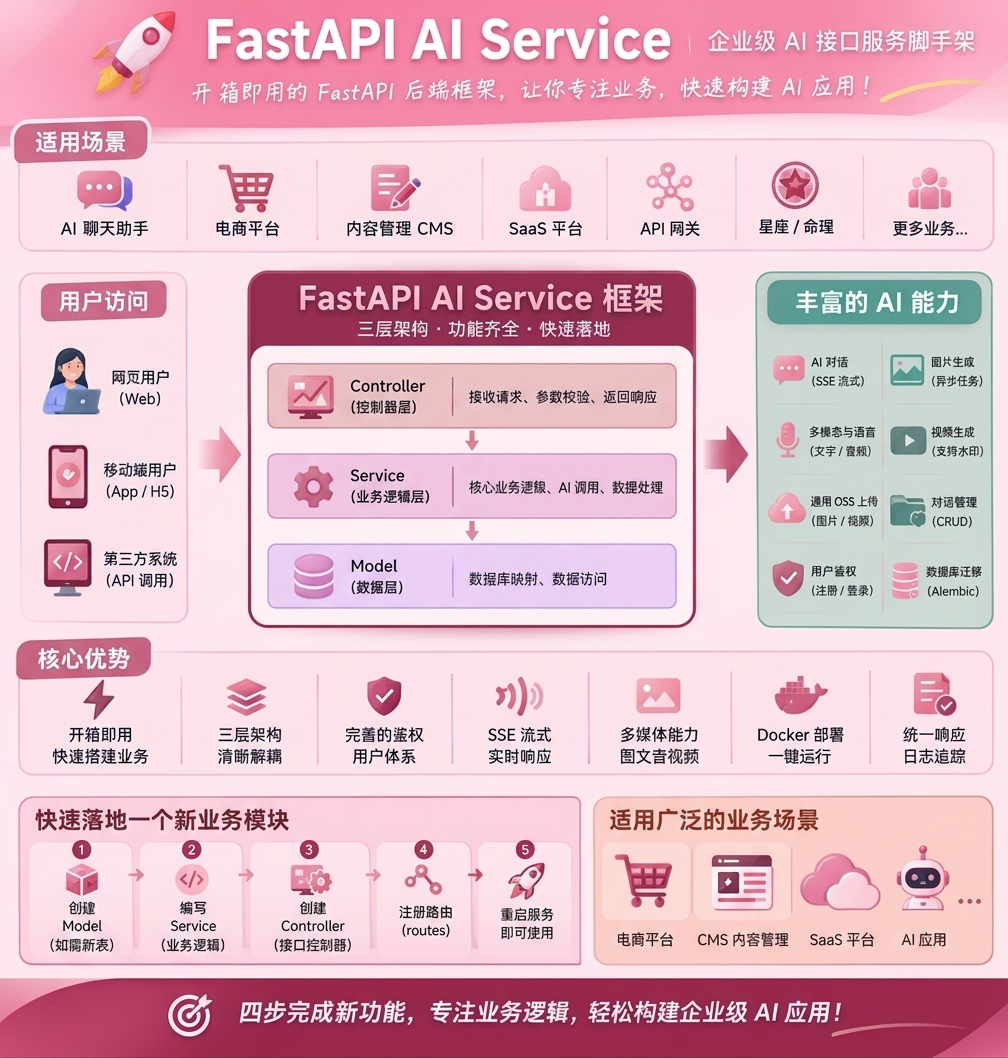
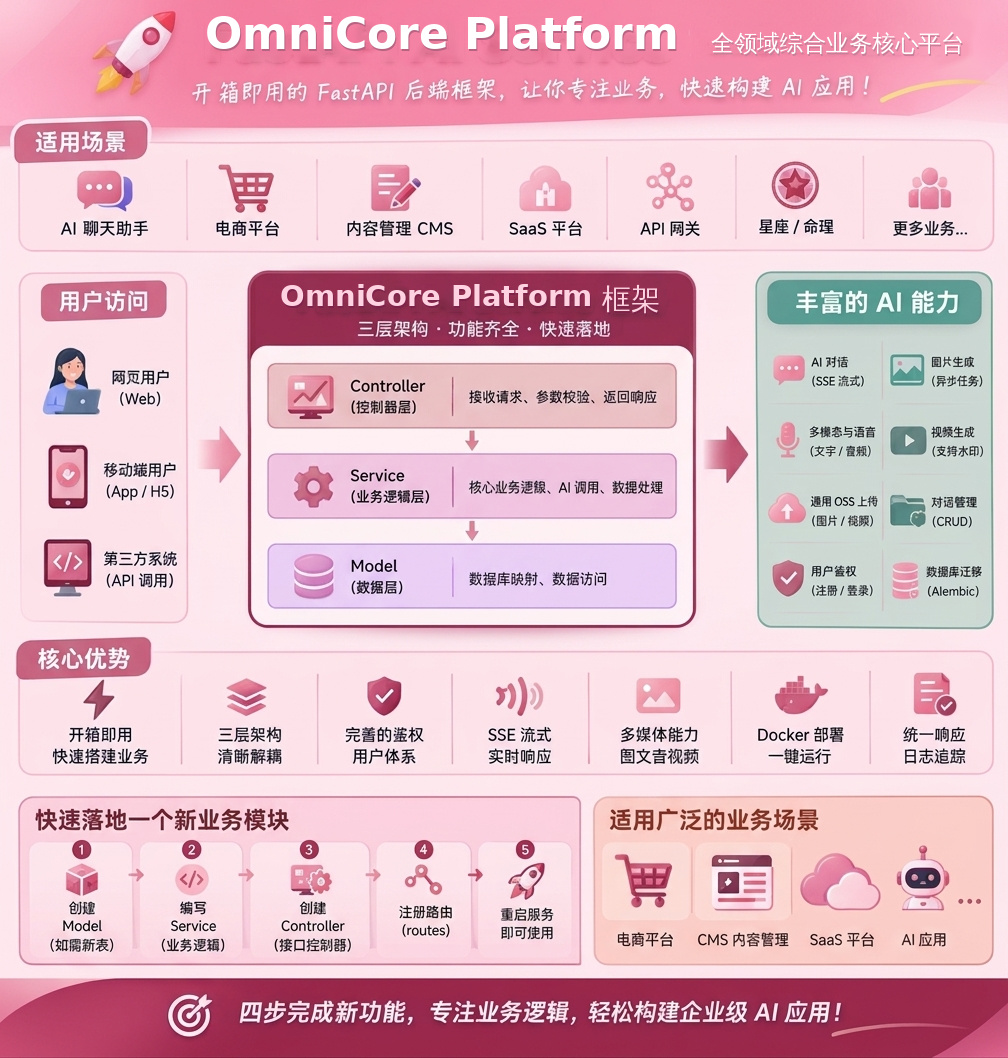
1

Changed region(s): [[0.1845, 0.0, 0.6766, 0.0624], [0.2768, 0.2495, 0.6766, 0.3119], [0.7073, 0.0312, 0.9841, 0.0624]]

diff --git a/app/main.py b/app/main.py
@@ -1,6 +1,6 @@
 """
 ============================================
-FastAPI AI Service - 应用入口
+OmniCore Platform - 应用入口
 ============================================
 组装各模块，保持简洁。具体实现在 app/setup/ 各子模块中。
 
@@ -59,7 +59,7 @@ def create_app() -> FastAPI:
     app = FastAPI(
         title=settings.PROJECT_NAME,
         version=settings.VERSION,
-        description="企业级 FastAPI AI 接口服务（三层架构）",
+        description="全领域综合业务核心平台（FastAPI 三层架构）",
         docs_url="/docs",
         redoc_url=None,  # 使用下方自定义路由（固定 ReDoc CDN 版本）
         openapi_url="/openapi.json",

diff --git a/app/utils/email.py b/app/utils/email.py
@@ -51,7 +51,7 @@ class EmailUtil:
         _user:      SMTP 登录用户名（通常为邮箱地址）
         _password:  SMTP 授权码（非邮箱登录密码）
         _sender:    发件人邮箱地址
-        _sender_name: 发件人显示名称（如 "LS FastAPI"）
+        _sender_name: 发件人显示名称（如 "OmniCore Platform"）
     """
 
     # ==================== 读取配置 ====================

diff --git a/app/api/controllers/tools_controller.py b/app/api/controllers/tools_controller.py
@@ -41,7 +41,7 @@ async def health_check():
         data={
             "status": "running" if all_healthy else "degraded",
             "version": settings.VERSION,
-            "service": "FastAPI AI Service",
+            "service": settings.PROJECT_NAME,
             **checks,
         },
         msg="服务运行正常" if all_healthy else "部分服务异常",

diff --git a/app/core/config.py b/app/core/config.py
@@ -105,7 +105,7 @@ class Settings(BaseSettings):
     """Redis 连接字符串，按需启用"""
 
     # ==================== 项目信息 ====================
-    PROJECT_NAME: str = "FastAPI AI Service"
+    PROJECT_NAME: str = "OmniCore Platform"
     VERSION: str = "1.0.0"
     DEBUG: bool = True
 

diff --git a/app/__init__.py b/app/__init__.py
@@ -1,6 +1,6 @@
 """
 ============================================
-FastAPI AI Service - 应用包
+OmniCore Platform - 应用包
 ============================================
 项目入口包，应用实例在此包下组织。
 """

diff --git a/README.md b/README.md
@@ -1,7 +1,7 @@
-# FastAPI AI Service — 企业级 AI 接口服务脚手架
+# OmniCore Platform — 全领域综合业务核心平台
 
-> **不仅是一个 AI 服务框架，更是一套通用的企业级后端脚手架**。基于 FastAPI 三层架构，内置用户鉴权、SSE 流式输出、OpenAI 兼容接口（当前接入千问，可扩展 DeepSeek / OpenAI 等任意兼容服务）、对话管理全链路。  
-> 无论是搭建 **AI 聊天助手、电商后台、内容管理系统、SaaS 平台、API 网关**，还是星座/命理等垂直领域应用，这套脚手架都能让你**半天内完成核心模块落地，专注于业务逻辑，而非基础设施**。
+> **OmniCore** 是项目简称，**OmniCore Platform** 是平台全称，定位为**全领域综合业务核心平台**。基于 FastAPI 三层架构，统一提供用户鉴权、后台权限、数据库访问、文件存储与 AI 接入等公共能力。  
+> 面向 **AI 应用、电商业务、内容管理、SaaS 平台、API 服务**及垂直领域扩展，复用统一的业务底座；当前已具备流式对话、星座与商品 Agent、多模态、内容生成及通用附件上传等能力。
 
 ---
 
@@ -188,7 +188,8 @@ cp .env.example .env    # 从模板创建本地配置
 alembic upgrade head
 
 # 4. 启动服务
-cd /mnt/d/python_work/fastapi_server
+# 进入项目根目录（以下为示例路径）
+cd /path/to/omnicore-platform
 uvicorn app.main:app --reload --host 0.0.0.0 --port 8001
 ```
 
@@ -214,6 +215,8 @@ uvicorn app.main:app --reload --host 0.0.0.0 --port 8001
 
 Docker Compose 启动 FastAPI 和 Redis；MySQL 使用宿主机上已运行的实例，不会作为容器启动。应用容器内监听 `8000`，默认从宿主机 `18000` 端口访问，Redis 默认映射到宿主机 `16379`。
 
+应用服务名为 `omnicore`，镜像名为 `omnicore-platform`，Redis 容器名为 `omnicore-redis`。从旧命名部署升级时，先执行 `docker compose down --remove-orphans`，再按下方步骤重新构建并启动；保留现有数据卷。
+
 ### 前置条件
 
 - Docker & Docker Compose v2+
@@ -235,7 +238,7 @@ make build
 make docker-up
 
 # 4. 首次部署时执行数据库迁移
-docker compose exec ai-server alembic upgrade head
+docker compose exec omnicore alembic upgrade head
 ```
 
 `host.docker.internal` 在 Compose 中映射到宿主机网关。若 MySQL 有网络访问限制，还需确认它监听 Docker 可达的地址，并允许对应来源连接。

diff --git a/docs/business.md b/docs/business.md
@@ -252,8 +252,8 @@ ffmpeg -version
 当前项目 Docker 镜像基于 `python:3.12-slim`（Debian），`Dockerfile` 已通过 `apt-get` 安装 FFmpeg。部署时重新构建并创建应用容器，再在容器内检查：
 
 ```bash
-docker compose up -d --build ai-server
-docker compose exec ai-server ffmpeg -version
+docker compose up -d --build omnicore
+docker compose exec omnicore ffmpeg -version
 ```
 
 FFmpeg 必须安装在实际运行后端的环境中；Docker 部署时在应用容器内检查，本机运行时在本机检查。默认 `config/ai.py` 的 `FFMPEG_BIN = "ffmpeg"`，通过 PATH 查找；自定义安装位置时可改为可执行文件的绝对路径。所用 FFmpeg 需支持 `overlay` 滤镜和 `libx264` 编码器。提交视频任务前会检查 FFmpeg 和水印文件，缺少 FFmpeg 时提示“FFmpeg 未安装或 FFMPEG_BIN 配置错误”。

diff --git a/ARCHITECTURE.md b/ARCHITECTURE.md
@@ -1,4 +1,4 @@
-# FastAPI AI Service — 架构说明
+# OmniCore Platform — 架构说明
 
 > 更新日期：2026-06-01
 
